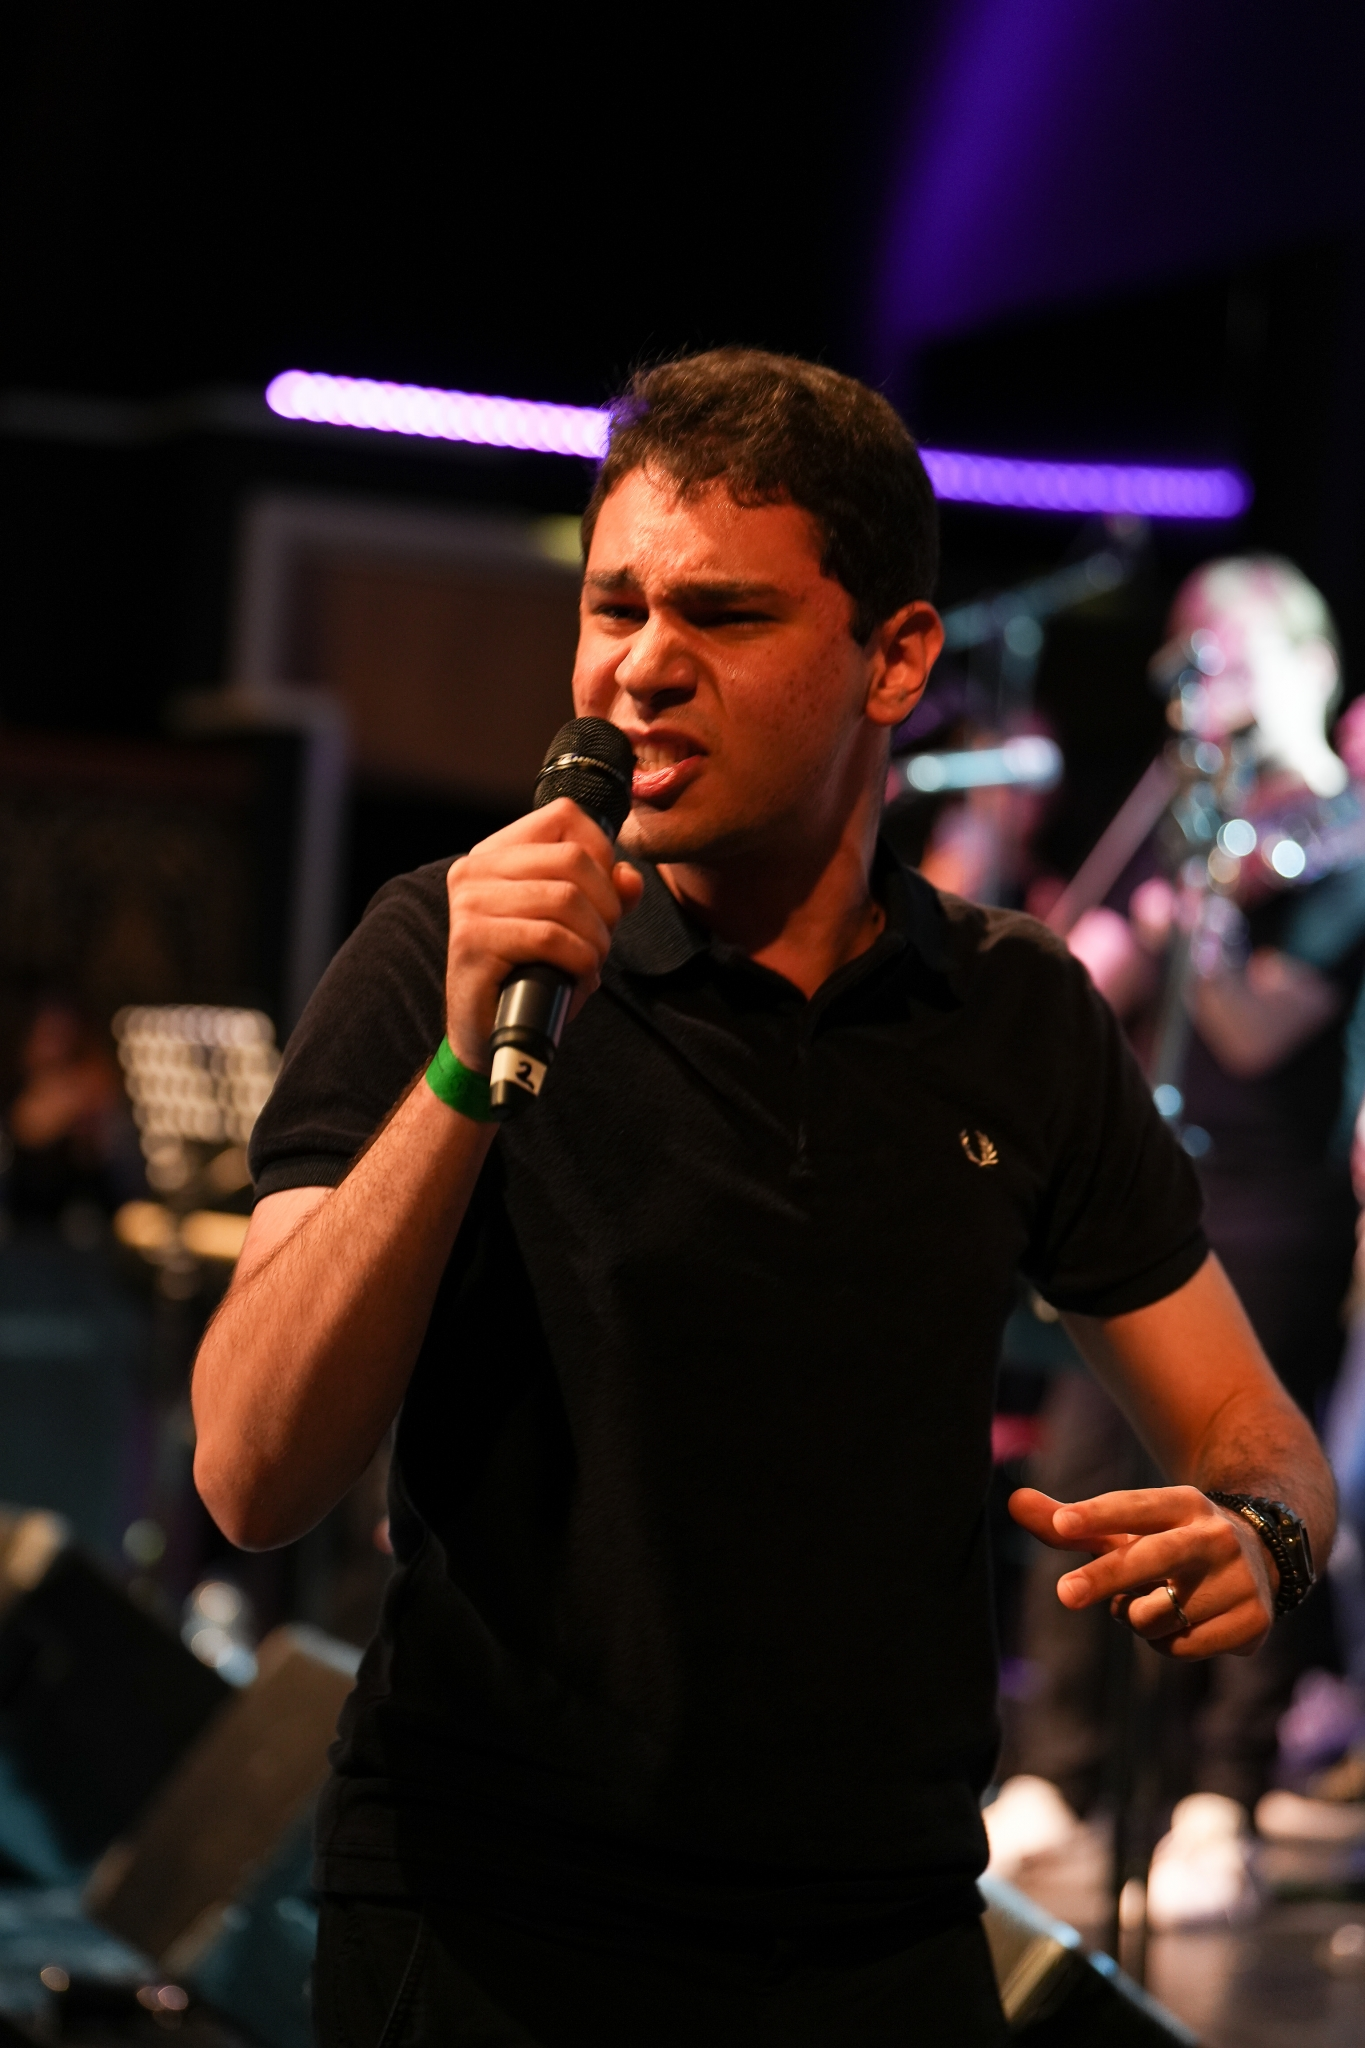
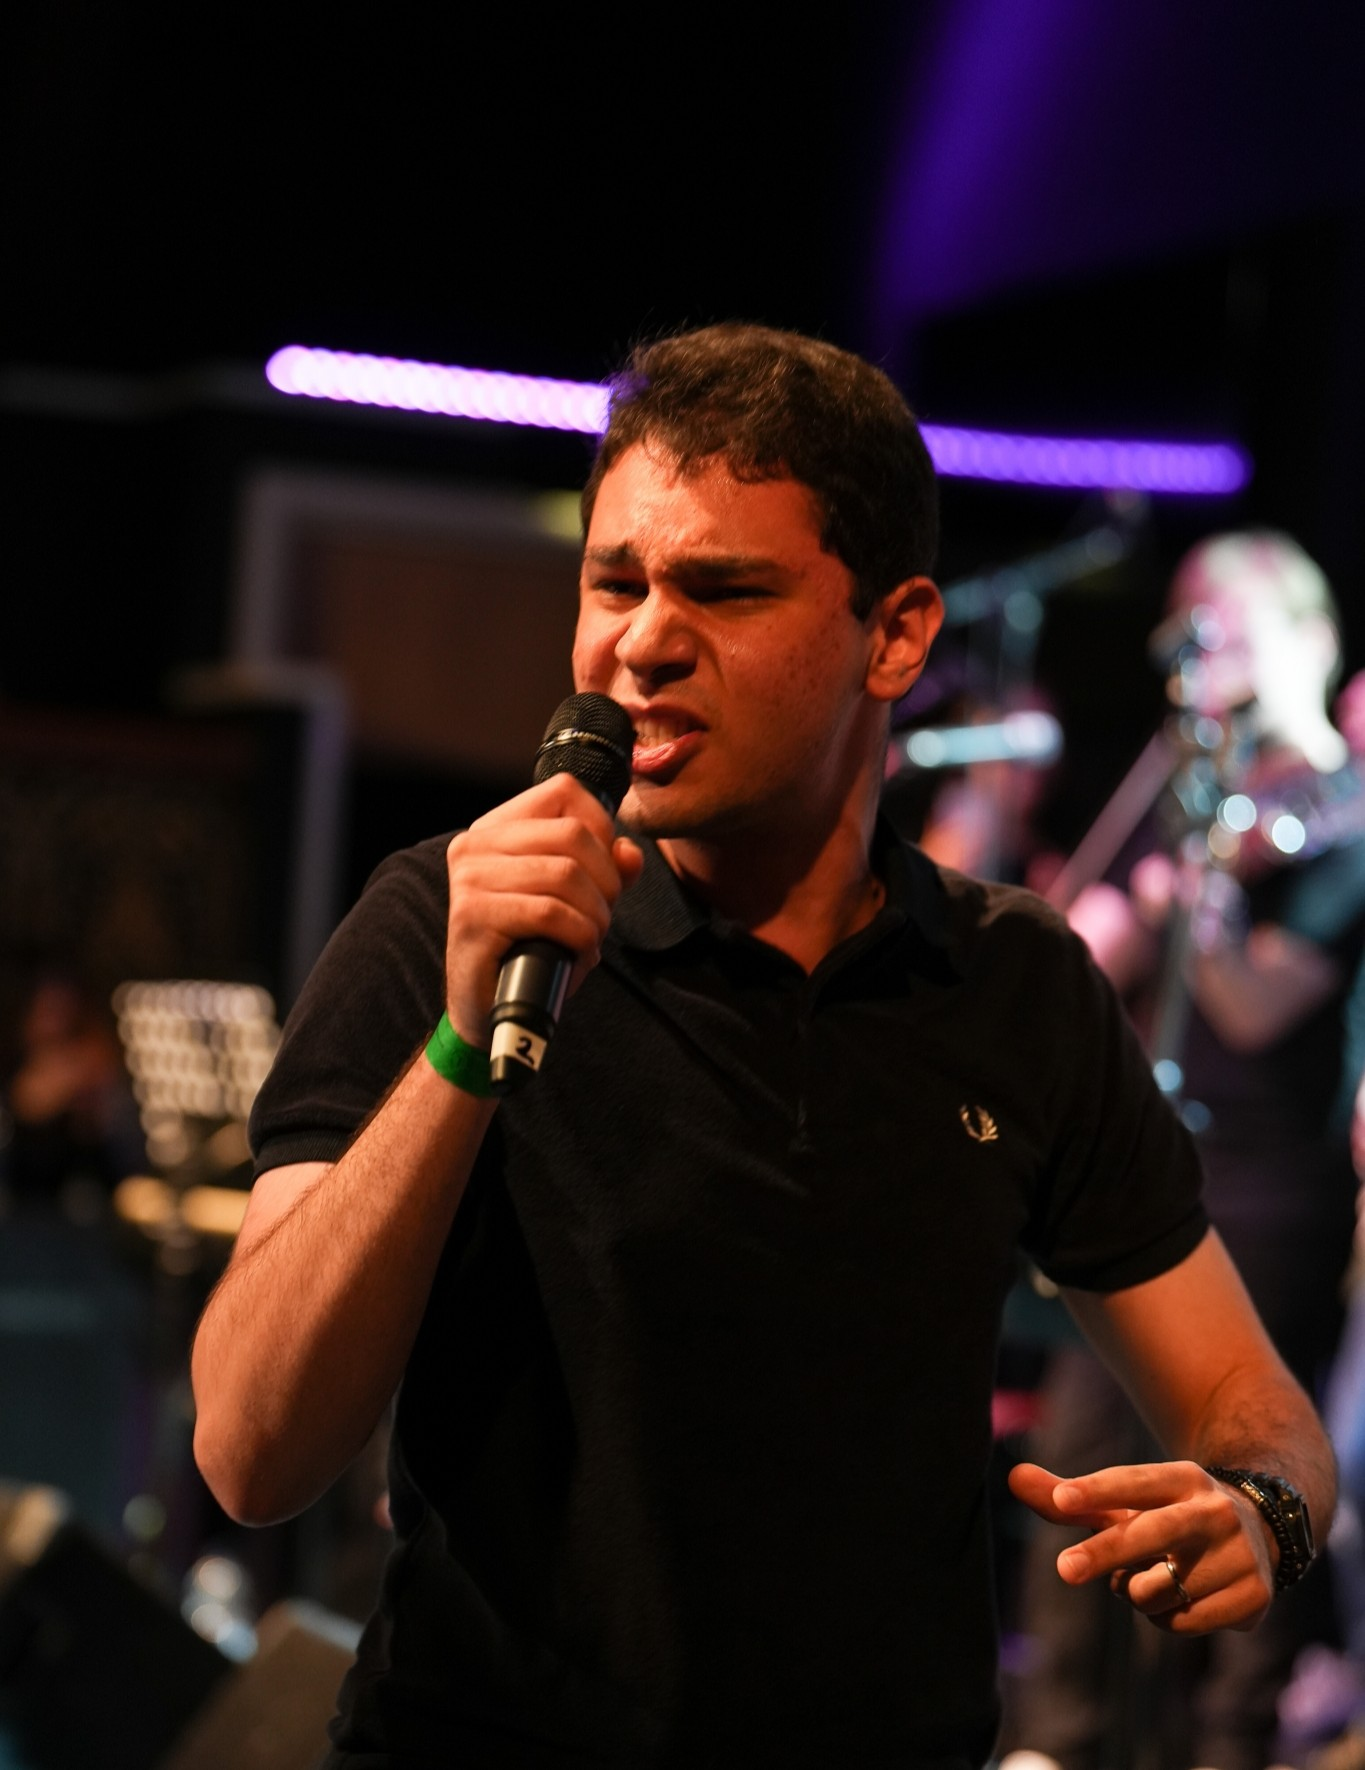
Better aspect ratios

diff --git a/music.html b/music.html
@@ -190,9 +190,6 @@
                                 <img src="img/music/talent_show_2022/final_emre_hosting.jpg" alt="Emre hosting the show" loading="lazy" />
                             </div>
                             <div class="slide fade">
-                                <img src="img/music/talent_show_2022/max_and_ryan.jpg" alt="Max and Ryan, the competition winners" loading="lazy" />
-                            </div>
-                            <div class="slide fade">
                                 <img src="img/music/talent_show_2022/emre_hosting_other_night.jpg" alt="Emre hosting the other night of the show" loading="lazy" />
                             </div>
                             <div class="slide fade">
